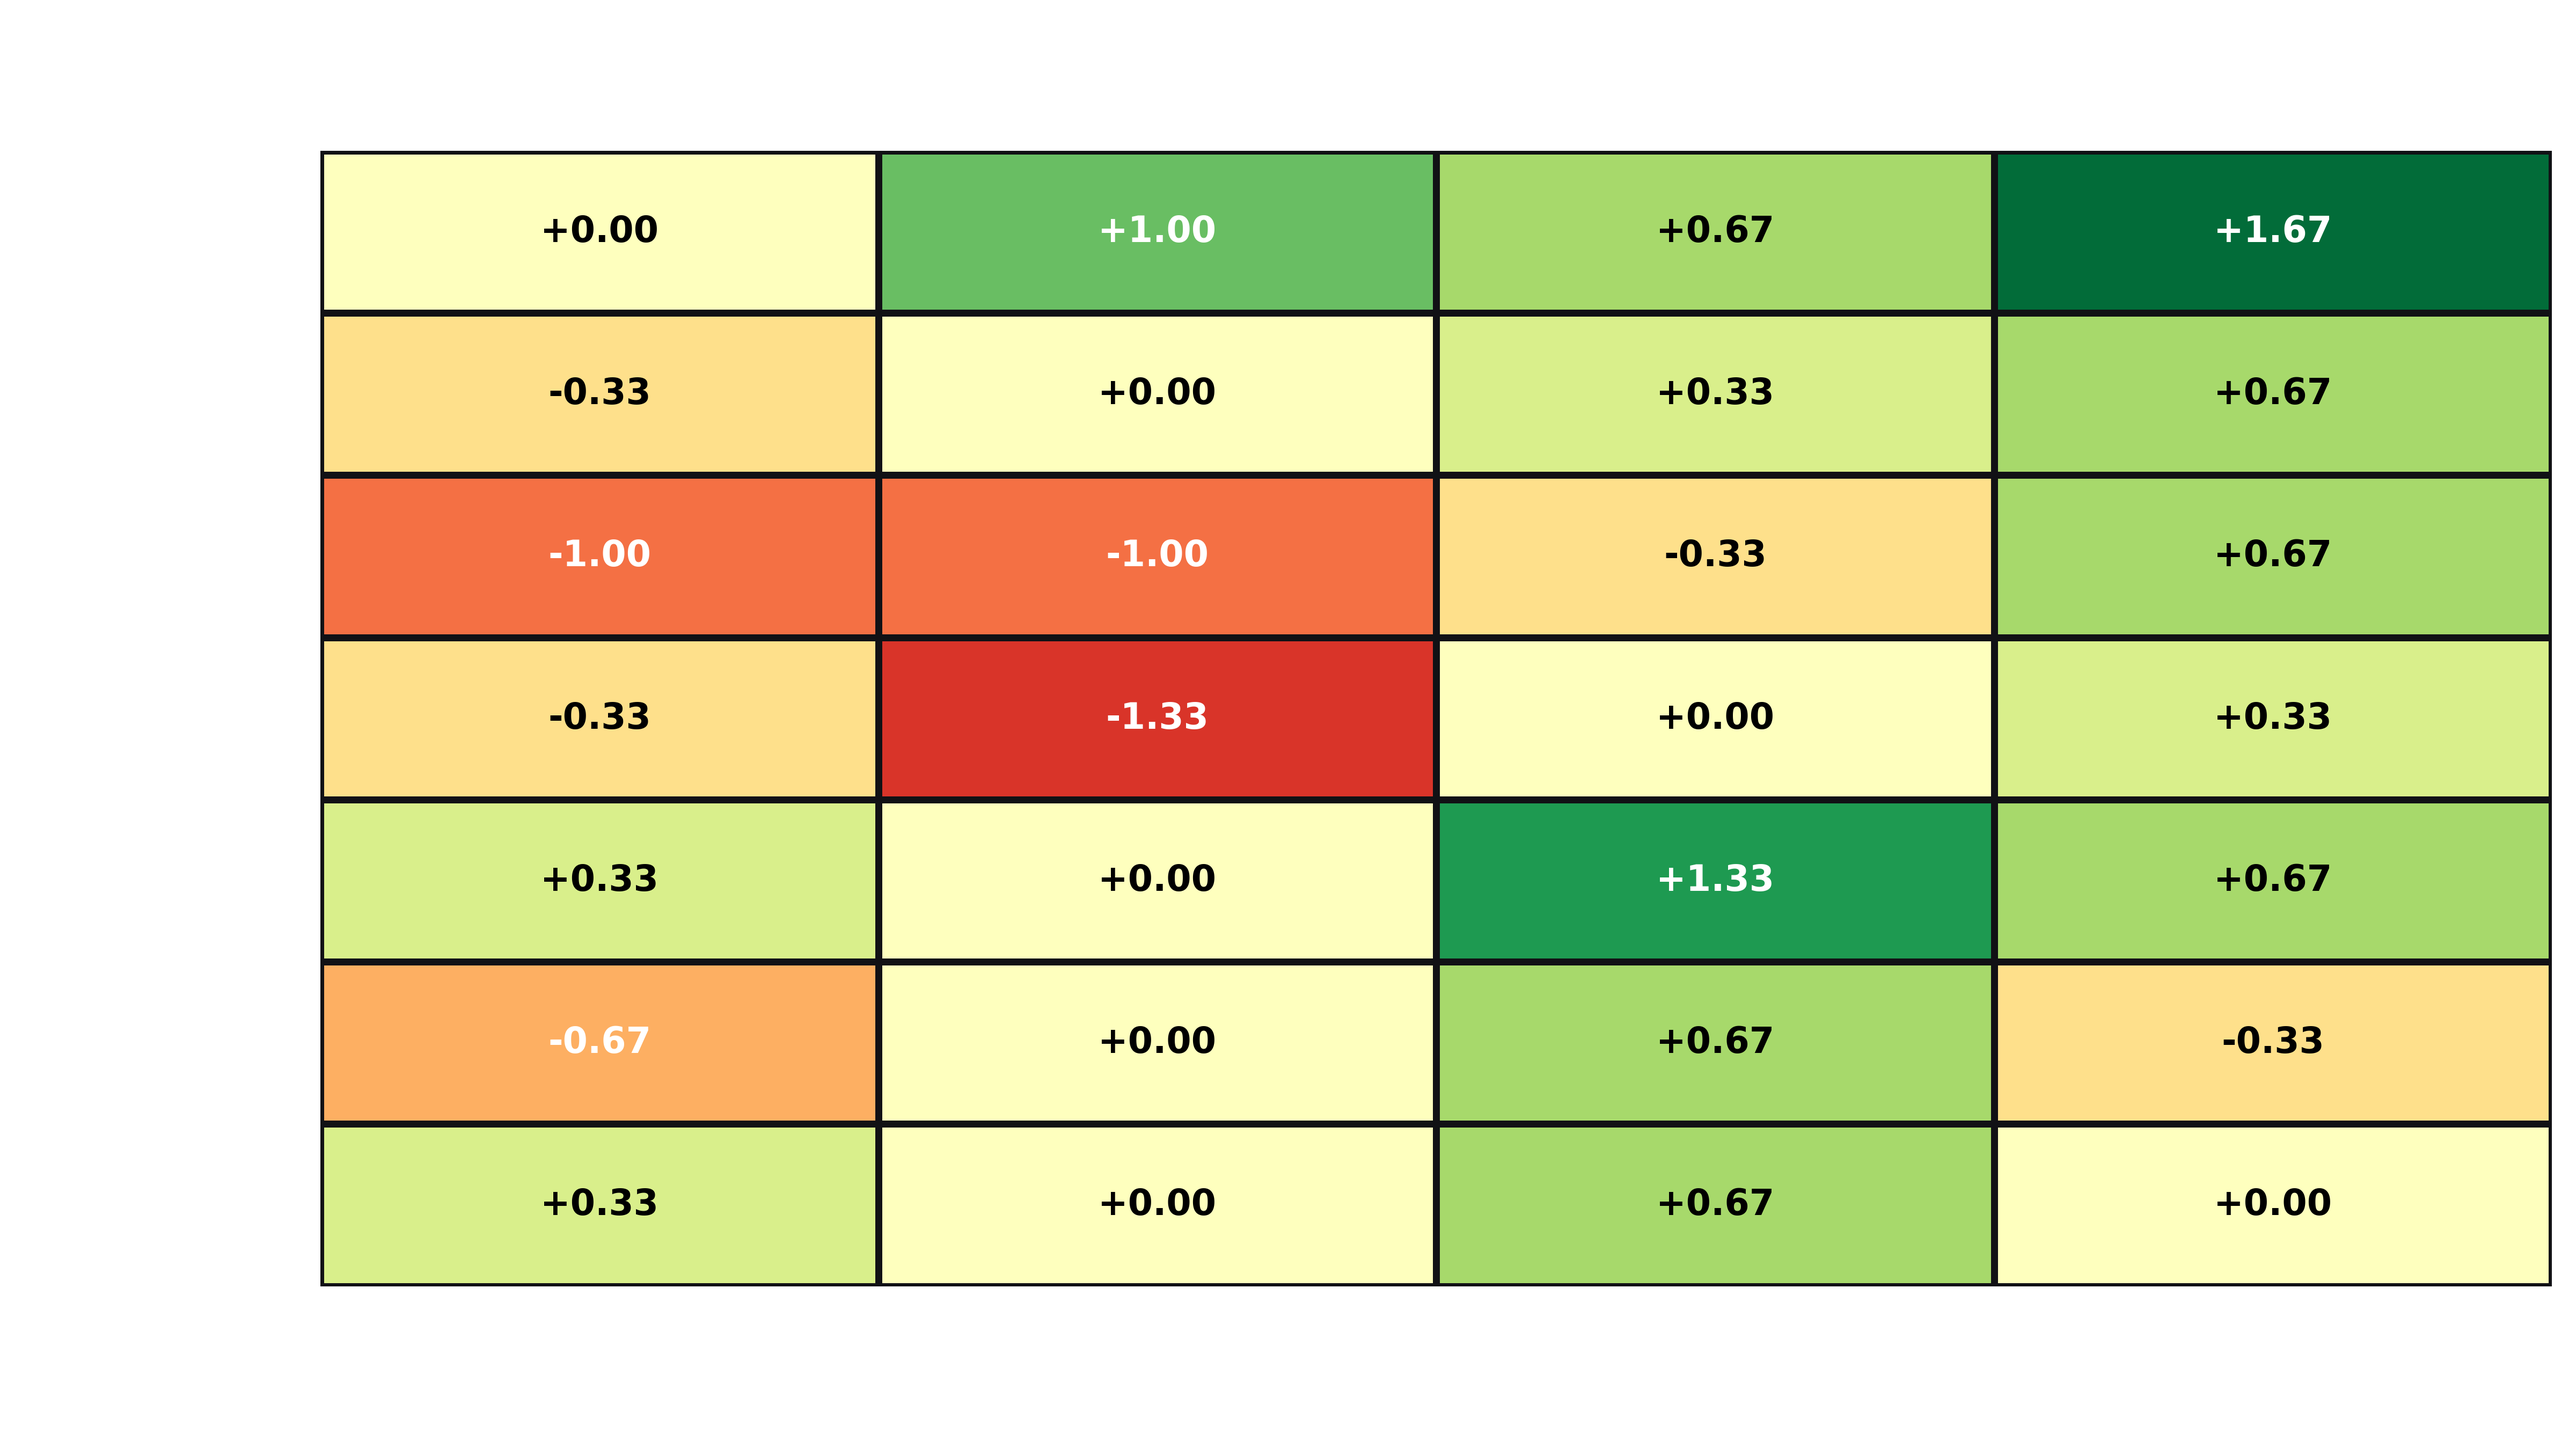
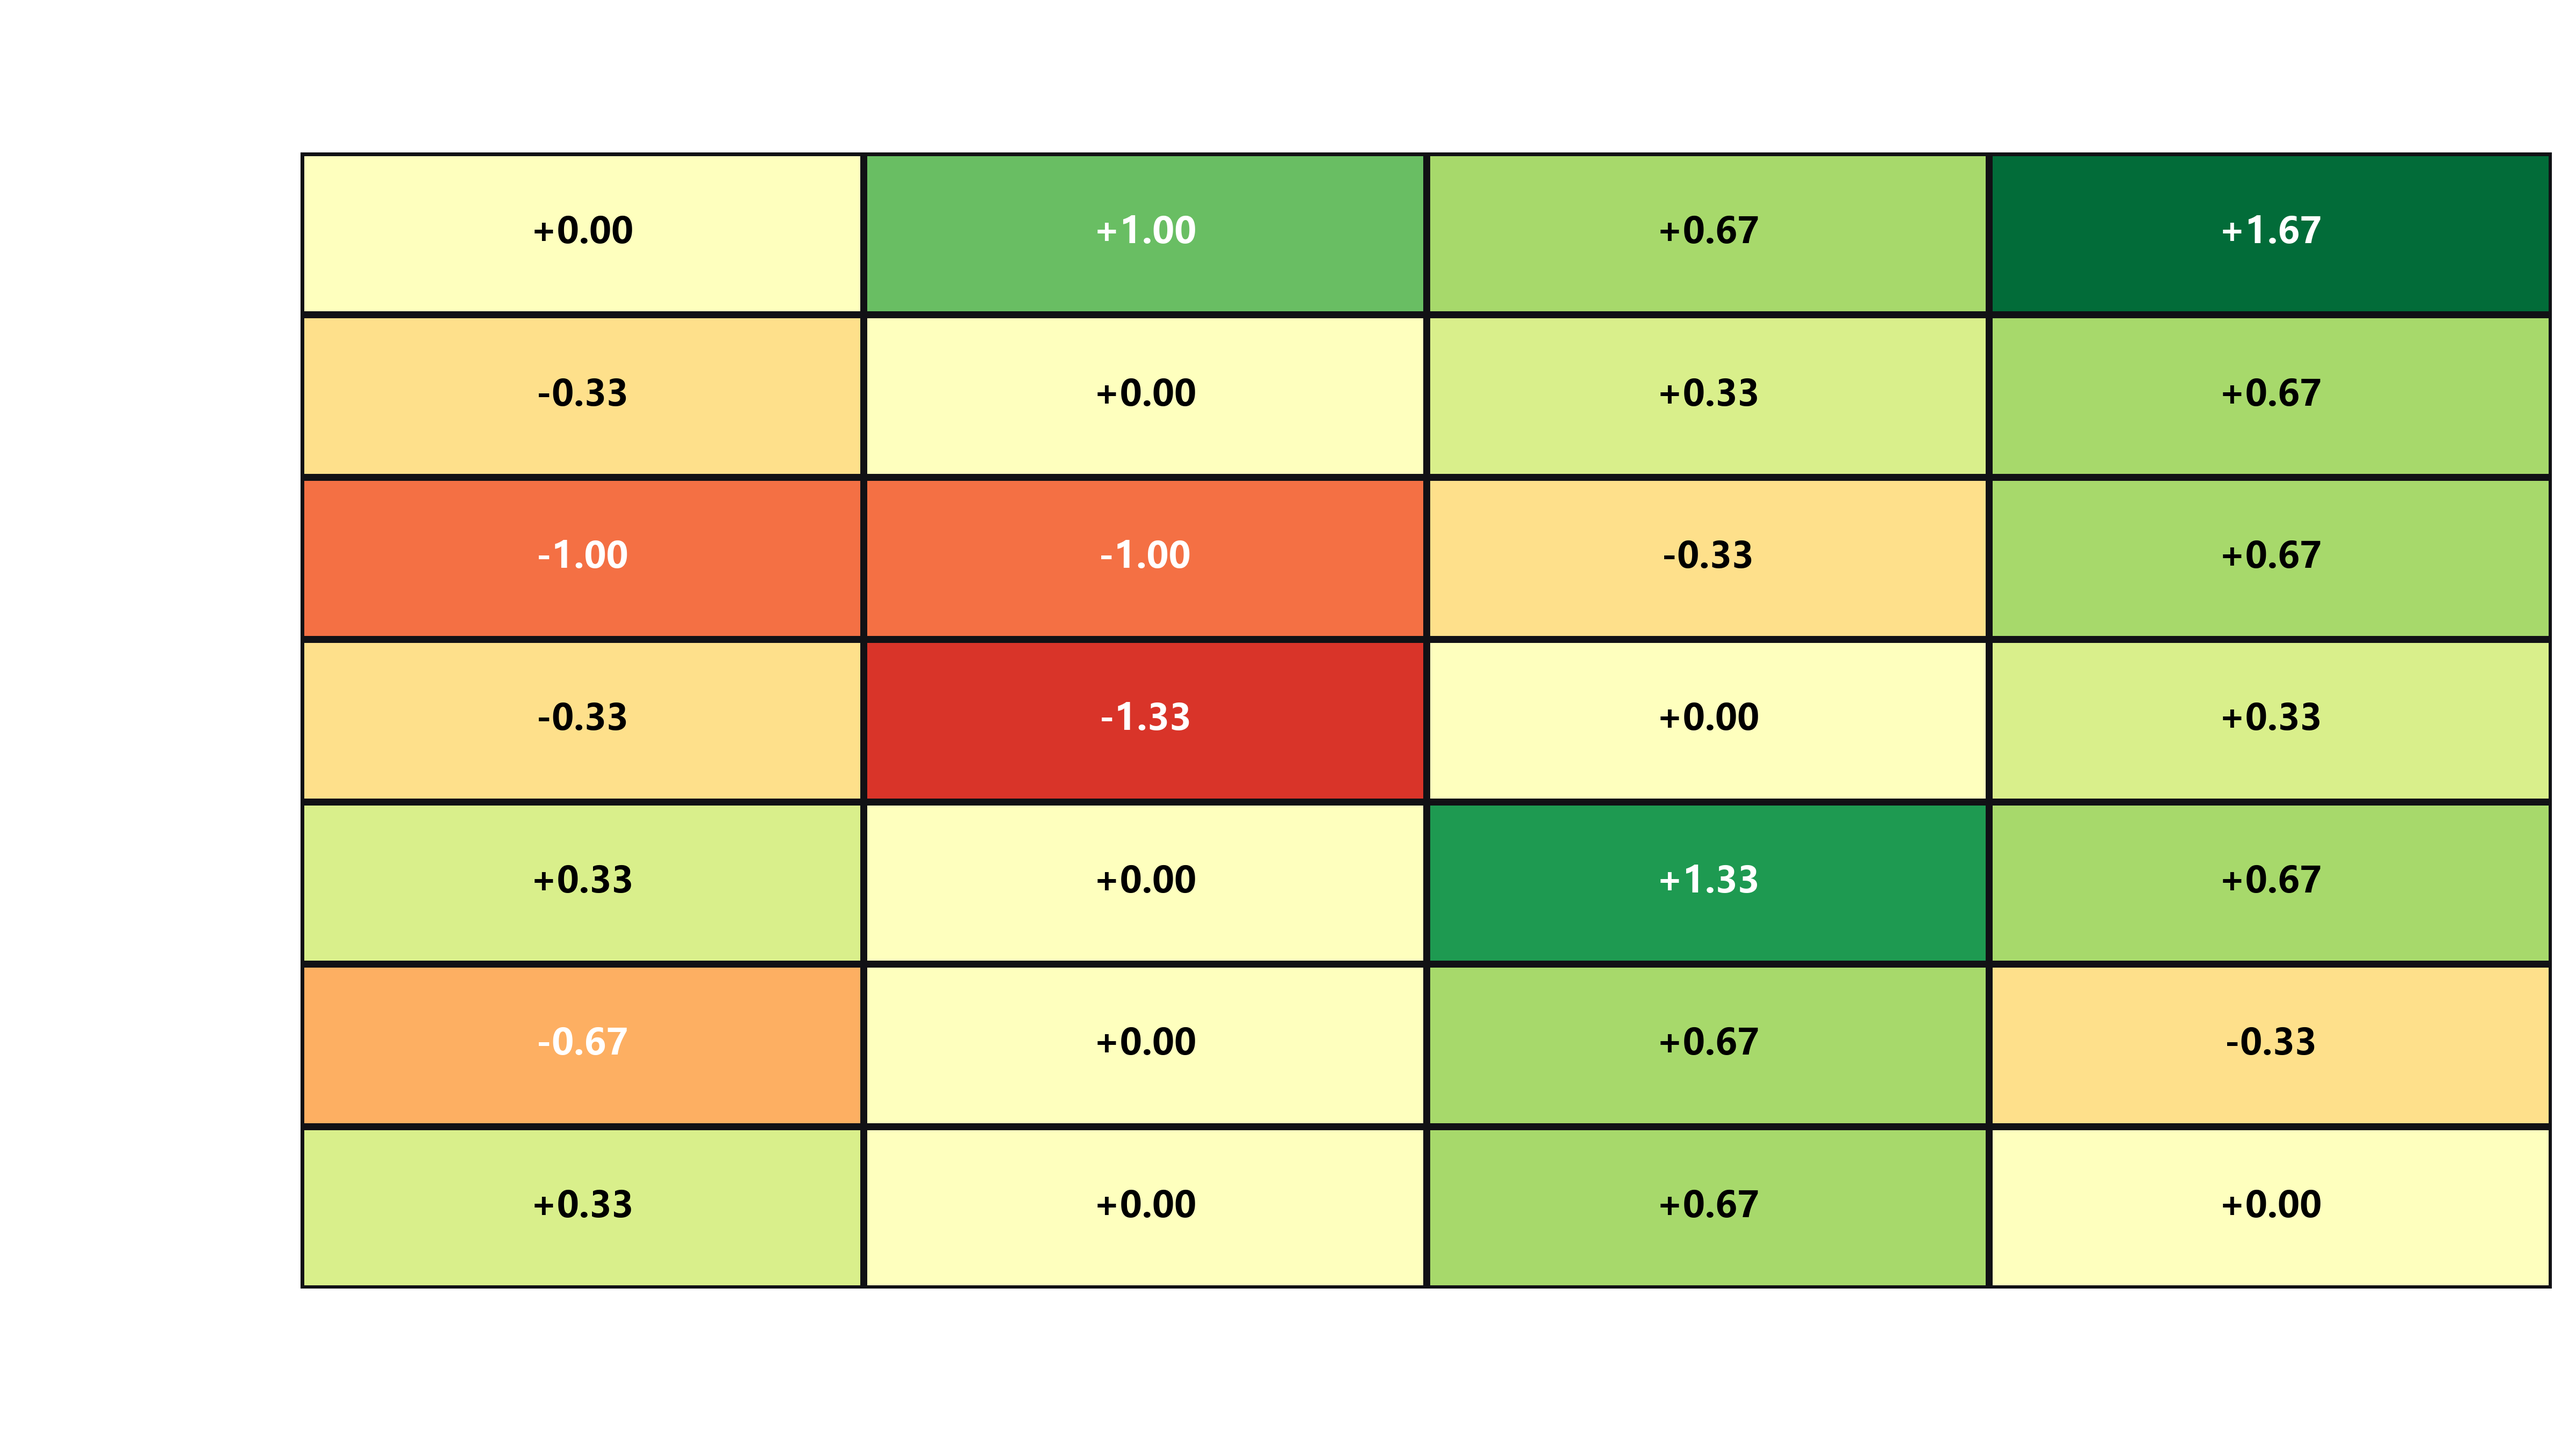
sync

diff --git a/viz/testing.py b/viz/testing.py
@@ -109,7 +109,7 @@ def _format_perf_matrix(df_pivot):
 def draw_heatmap(data_matrix, title, save_filename, mode="continuous",
                  float_fmt="{:.2f}", custom_bounds=None, reverse_cmap=False,
                  vmin=None, vmax=None):
-    fig, ax = plt.subplots(figsize=(16, 9), dpi=300)
+    fig, ax = plt.subplots(figsize=(16, 9), dpi=400)
     fig.patch.set_facecolor(BG_COLOR)
     ax.set_facecolor(BG_COLOR)
 
@@ -118,18 +118,32 @@ def draw_heatmap(data_matrix, title, save_filename, mode="continuous",
         status_map = {'ERROR': 0, 'F': 1, 'GE': 2, 'EX': 3}
         numeric_matrix = data_matrix.replace(status_map).fillna(0).astype(float)
 
+        # 1. Map the cell abbreviations to full words for display labels
+        display_map = {'ERROR': 'ERROR', 'F': 'FAILED', 'GE': 'GOOD ENOUGH', 'EX': 'IDEAL'}
+        annot_matrix = data_matrix.replace(display_map)
+
+        # 2. Draw the heatmap with full text annotations and no sidebar
         sns.heatmap(
-            numeric_matrix, cmap=cmap, annot=data_matrix, fmt='', cbar=False, vmin=0, vmax=3,
-            linewidths=3, linecolor='#111115', annot_kws={"size": MATRIX_CELL_FONT_SIZE, "weight": "bold"}, ax=ax
+            numeric_matrix,
+            cmap=cmap,
+            annot=annot_matrix,  # <--- Forces FAILED, GOOD ENOUGH, IDEAL inside cells
+            fmt='',
+            cbar=False,  # <--- Keeps sidebar completely hidden
+            vmin=0, vmax=3,
+            linewidths=3, linecolor='#111115',
+            annot_kws={"size": MATRIX_CELL_FONT_SIZE, "weight": "bold"},
+            ax=ax
         )
+
+        # 3. Match text font contrast against the new full words
         for text_el in ax.texts:
             t = text_el.get_text()
             if t == 'ERROR':
-                text_el.set_color('#ff4d6d')
-            elif t == 'GE':
-                text_el.set_color('black')
+                text_el.set_color('#ff4d6d')  # Pink-red highlight for crashes
+            elif t == 'GOOD ENOUGH':
+                text_el.set_color('black')  # Crisp black text for yellow boxes
             else:
-                text_el.set_color('white')
+                text_el.set_color('white')  # Clean white text for Green and Red boxes
 
     elif mode == "threshold":
         # Changed sentinel to -999.0 so legitimate negative numbers aren't caught!
